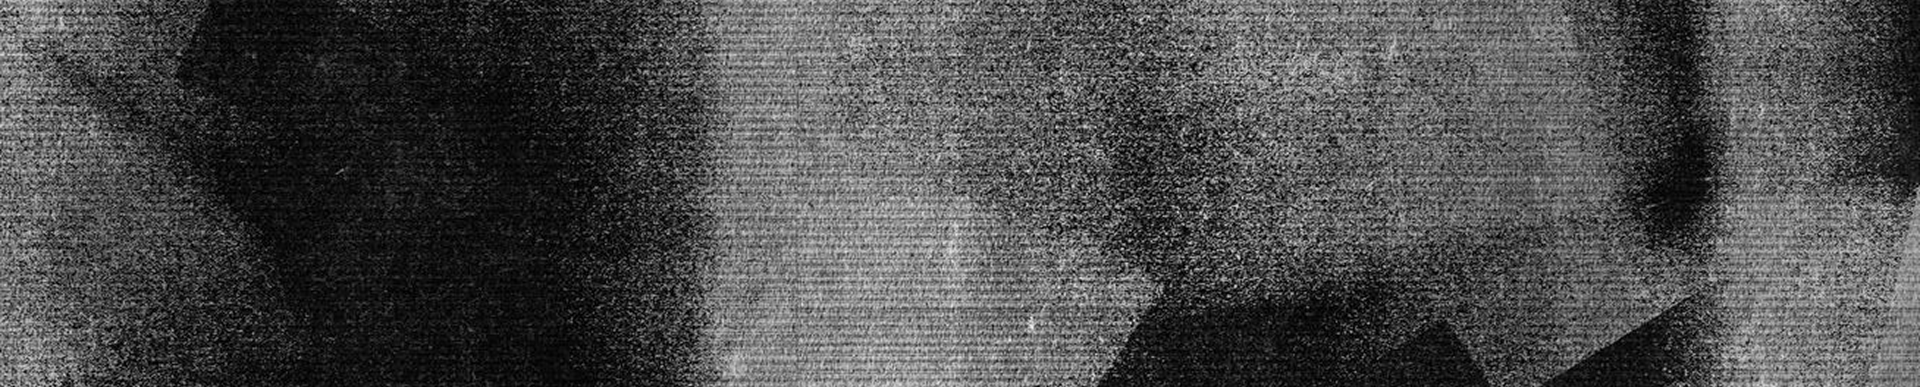
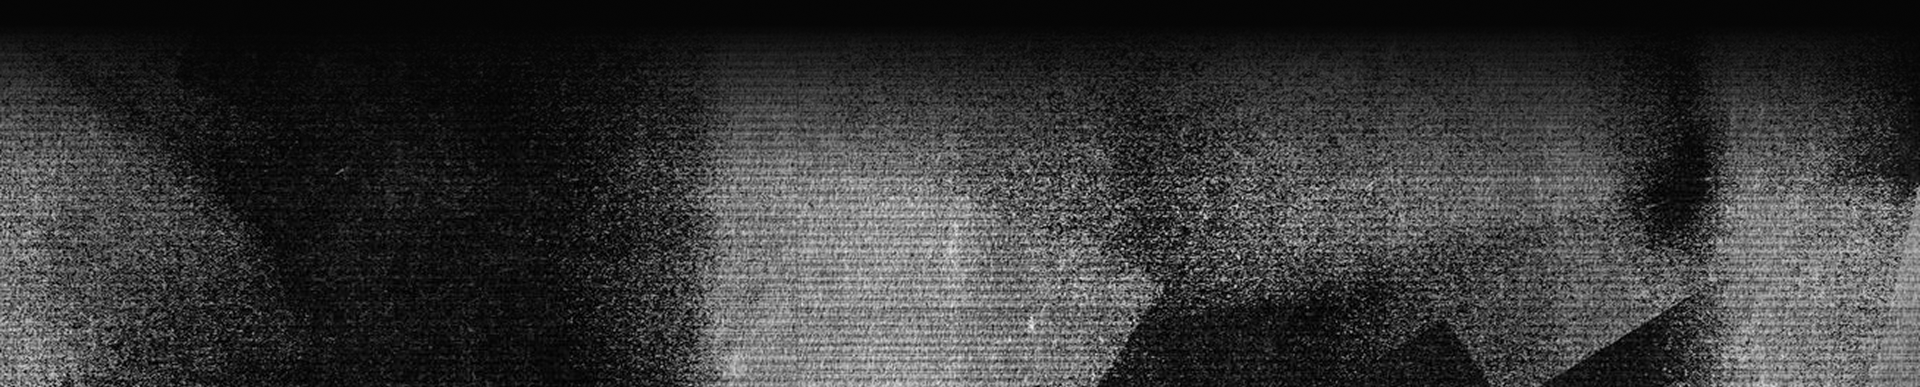
Add Footer component and CTA navigation
Introduce a new Footer component with logo and site links (src/components/Footer.js + src/assets/logo.png) and render it in App (import + <Footer />). Add client-side navigation hooks and CTAs: useNavigate added to LandingPage and hero, a 'Try It Yourself' button added to LandingPage that navigates to /compare, and the Hero button wired to /compare. Remove extra bottom padding on LandingPage so the footer sits flush. Also update the hero header image asset (binary change).

Changed region(s): [[0.0, 0.0, 1.0, 0.4341]]

diff --git a/src/components/Footer.js b/src/components/Footer.js
@@ -1,0 +1,90 @@
+import React from 'react';
+import { Container, Row, Col } from 'react-bootstrap';
+
+// Import the logo. The '../' steps out of the components folder to find the assets folder.
+import logoImage from '../assets/logo.png';
+
+const Footer = () => {
+    return (
+        <footer style={{
+            backgroundColor: '#040404',
+            borderTop: '1px solid #1a1a1a',
+            padding: '60px 0 30px 0',
+            marginTop: '80px',
+            color: '#888',
+            fontFamily: '"Courier New", monospace'
+        }}>
+            <Container>
+                <Row className="gy-4">
+                    <Col md={6}>
+                        <img
+                            src={logoImage}
+                            alt="BVLTRA Logo"
+                            style={{
+                                height: '24px', // You can tweak this to make it bigger or smaller
+                                marginBottom: '15px',
+                                display: 'block'
+                            }}
+                        />
+                        <p style={{ fontSize: '0.85rem', lineHeight: '1.6', maxWidth: '300px' }}>
+                            Advanced nutritional telemetry and metabolic tracking. Built for high-performance biological rendering.
+                        </p>
+                    </Col>
+
+                    <Col md={3}>
+                        <h6 style={{ color: '#00ffcc', textTransform: 'uppercase', letterSpacing: '1px', marginBottom: '15px', fontSize: '0.8rem' }}>
+                            Systems Core
+                        </h6>
+                        <ul style={{ listStyle: 'none', padding: 0, margin: 0, fontSize: '0.85rem', lineHeight: '2' }}>
+                            <li style={{ cursor: 'pointer' }}>Compare Engine</li>
+                            <li style={{ cursor: 'pointer' }}>Telemetry Stream</li>
+                        </ul>
+                    </Col>
+
+                    <Col md={3}>
+                        <h6 style={{ color: '#00ffcc', textTransform: 'uppercase', letterSpacing: '1px', marginBottom: '15px', fontSize: '0.8rem' }}>
+                            Documentation
+                        </h6>
+                        <ul style={{ listStyle: 'none', padding: 0, margin: 0, fontSize: '0.85rem', lineHeight: '2' }}>
+                            <li>
+                                <a
+                                    href="https://platform.fatsecret.com/api/"
+                                    target="_blank"
+                                    rel="noopener noreferrer"
+                                    style={{ color: '#888', textDecoration: 'none', transition: 'color 0.2s ease' }}
+                                    onMouseEnter={(e) => e.target.style.color = '#fff'}
+                                    onMouseLeave={(e) => e.target.style.color = '#888'}
+                                >
+                                    FatSecret API
+                                </a>
+                            </li>
+                            <li>
+                                <a
+                                    href="https://react-bootstrap.netlify.app/"
+                                    target="_blank"
+                                    rel="noopener noreferrer"
+                                    style={{ color: '#888', textDecoration: 'none', transition: 'color 0.2s ease' }}
+                                    onMouseEnter={(e) => e.target.style.color = '#fff'}
+                                    onMouseLeave={(e) => e.target.style.color = '#888'}
+                                >
+                                    React Bootstrap
+                                </a>
+                            </li>
+                        </ul>
+                    </Col>
+
+                </Row>
+
+                <hr style={{ borderColor: '#1a1a1a', margin: '40px 0 20px 0', opacity: 1 }} />
+
+                <div style={{ display: 'flex', justifyContent: 'space-between', fontSize: '0.75rem', color: '#444', flexWrap: 'wrap', gap: '15px' }}>
+                    <span>&copy; {new Date().getFullYear()} BVLTRA. All Rights Reserved</span>
+
+                    <span>BVLTRA Metrics is an educational interactive project. Nutritional data provided by the FatSecret API.</span>
+                </div>
+            </Container>
+        </footer>
+    );
+};
+
+export default Footer;

diff --git a/src/LandingPage.js b/src/LandingPage.js
@@ -4,6 +4,7 @@
  */
 
 import React, { useEffect, useState } from 'react';
+import { useNavigate } from 'react-router-dom'; // NEW: Added for the button routing
 import Hero from './hero';
 import { Container, Row, Col } from 'react-bootstrap';
 import { getAccessToken, getFoodDetails } from './services/foodApi';
@@ -11,12 +12,15 @@ import { getAccessToken, getFoodDetails } from './services/foodApi';
 
 import FoodAnalysisFrame from './components/PieChart';
 import anatomyImage from './assets/chef-pan-anatomy.png'; 
+import Footer from './components/Footer'; // NEW: Imported the new footer
 
 // --- MAIN PAGE ---
 function LandingPage() {
     const [foodAData, setFoodAData] = useState(null);
     const [foodBData, setFoodBData] = useState(null);
     const [loading, setLoading] = useState(true);
+    
+    const navigate = useNavigate(); // NEW: Initialized the routing engine
 
     useEffect(() => {
         const loadComparisonData = async () => {
@@ -35,7 +39,8 @@ function LandingPage() {
     }, []);
 
     return (
-        <div style={{ backgroundColor: '#040404', color: 'white', minHeight: '100vh', paddingBottom: '100px' }}>
+        // NEW: Removed paddingBottom: '100px' so the footer sits flush at the bottom
+        <div style={{ backgroundColor: '#040404', color: 'white', minHeight: '100vh' }}>
             <Hero />
 
             <Container className="pt-0 mt-4">
@@ -143,6 +148,43 @@ function LandingPage() {
                         </Col>
                     </Row>
                 )}
+
+                {/* --- CALL TO ACTION BUTTON --- */}
+                <div style={{ textAlign: 'center', marginTop: '80px', paddingBottom: '40px' }}>
+                    <h3 style={{ fontFamily: '"Playfair Display", serif', color: '#fff', marginBottom: '25px', fontSize: '2rem' }}>
+                        Intrigued by the data?
+                    </h3>
+                    
+                    <button 
+                        onClick={() => navigate('/compare')}
+                        style={{
+                            backgroundColor: 'transparent',
+                            color: '#00ffcc',
+                            border: '1px solid #00ffcc',
+                            padding: '12px 35px',
+                            borderRadius: '30px',
+                            fontFamily: '"Courier New", monospace',
+                            fontSize: '0.9rem',
+                            textTransform: 'uppercase',
+                            letterSpacing: '2px',
+                            cursor: 'pointer',
+                            transition: 'all 0.3s ease',
+                            boxShadow: '0 0 15px rgba(0, 255, 204, 0.1)'
+                        }}
+                        onMouseEnter={(e) => {
+                            e.target.style.backgroundColor = '#00ffcc';
+                            e.target.style.color = '#000';
+                            e.target.style.boxShadow = '0 0 20px rgba(0, 255, 204, 0.5)';
+                        }}
+                        onMouseLeave={(e) => {
+                            e.target.style.backgroundColor = 'transparent';
+                            e.target.style.color = '#00ffcc';
+                            e.target.style.boxShadow = '0 0 15px rgba(0, 255, 204, 0.1)';
+                        }}
+                    >
+                        Try It Yourself
+                    </button>
+                </div>
             </Container>
         </div>
     );

diff --git a/src/hero.js b/src/hero.js
@@ -1,4 +1,5 @@
 import { Container, Row, Col } from 'react-bootstrap';
+import { useNavigate } from 'react-router-dom'; 
 import './hero.css';
 
 //Note: Images imposted because react apparently doesn't like it when you use the files in the public folder for some reason. 
@@ -6,6 +7,8 @@ import './hero.css';
 import bgImage from './assets/hero-bg2.jpg';
 import logoImage from './assets/hero-logo.png';
 function Hero() {
+    const navigate = useNavigate(); 
+
     return (
         //Left to right gradient overlay with the background image underneath. 
         //Gradient steps from light to dark to light again because NOBODY decided it'd be a good idea to creat "to center" or "to middle" gradient directions in CSS!!!
@@ -33,7 +36,8 @@ function Hero() {
                             {/*AI generated placeholder text*/}
                             A refined nutritional index dedicated to the deconstruction of food into precise, quantitative data. {/* By stripping away marketing labels to reveal the underlying chemical and caloric structures, it provides a high-fidelity mirror for those seeking radical clarity in their consumption. It is less about dietary advice and more about the raw anatomy of what we ingest.*/}
                         </p>
-                        <button className="btn btn-light rounded-pill px-4 py-2 mt-4 fw-bold shadow-sm">
+                        {/* NEW: Added onClick routing to the button */}
+                        <button onClick={() => navigate('/compare')} className="btn btn-light rounded-pill px-4 py-2 mt-4 fw-bold shadow-sm">
                             Explore the Data {/* PLACE HOLDER, DECIDE ON FUNTIONALITY */}
                         </button>
                     </Col>

diff --git a/src/App.js b/src/App.js
@@ -8,6 +8,7 @@ import NavigationBar from './navbar';
 import LandingPage from './LandingPage';
 import TimelinePage from './TimelinePage';
 import ComparePage from './ComparePage';
+import Footer from './components/Footer'; 
 
 function App() {
   return (
@@ -21,6 +22,7 @@ function App() {
         <Route path="/compare" element={<ComparePage />} />
         <Route path="/timeline" element={<TimelinePage />} />
       </Routes>
+      <Footer />
     </BrowserRouter>
   );
 }
